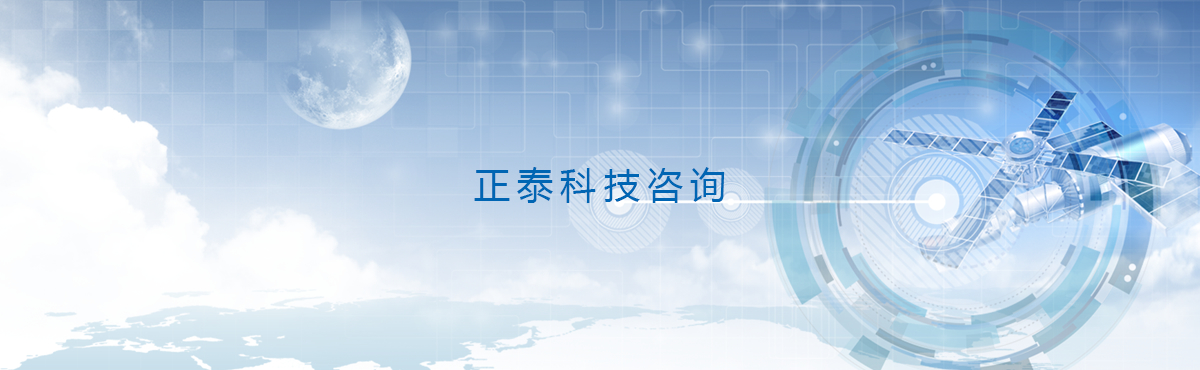
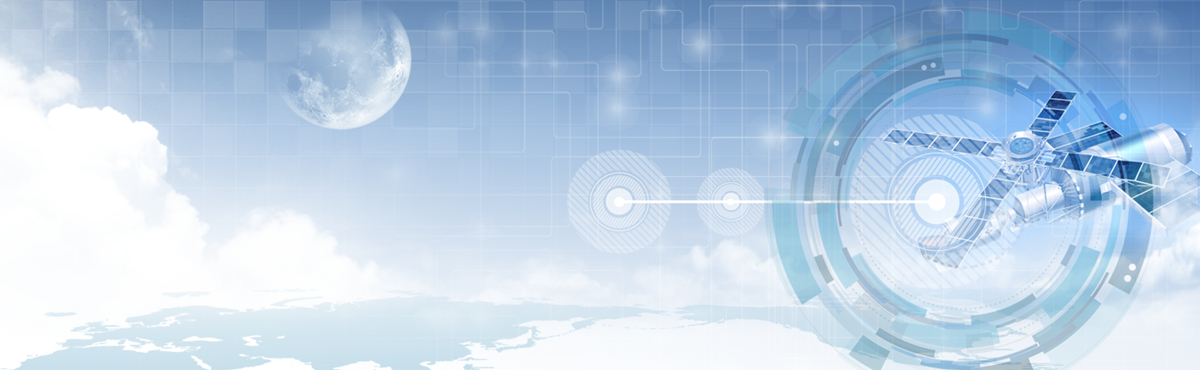
五站修改完成

Changed region(s): [[0.4008, 0.4459, 0.6167, 0.5649]]

diff --git a/WEB-INF/t/cms/kjzx/kjzx/index/index.html b/WEB-INF/t/cms/kjzx/kjzx/index/index.html
@@ -34,9 +34,15 @@
             <div class="item on" style="background-image: url(/${res}/imgs/keji1.jpg);">
                 <div class="animated fadeInLeftBig item-cnttit">正&nbsp;泰&nbsp;科&nbsp;技&nbsp;咨&nbsp;询</div>
             </div>
-            <div class="item" style="background-image: url(/${res}/imgs/keji2.jpg);"></div>
-            <div class="item" style="background-image: url(/${res}/imgs/keji3.jpg);"></div>
-            <div class="item" style="background-image: url(/${res}/imgs/keji4.jpg);"></div>
+            <div class="item" style="background-image: url(/${res}/imgs/keji2.jpg);">
+                <div class="animated fadeInLeftBig item-cnttit">正&nbsp;泰&nbsp;科&nbsp;技&nbsp;咨&nbsp;询</div>
+            </div>
+            <div class="item" style="background-image: url(/${res}/imgs/keji3.jpg);">
+                <div class="animated fadeInLeftBig item-cnttit">正&nbsp;泰&nbsp;科&nbsp;技&nbsp;咨&nbsp;询</div>
+            </div>
+            <div class="item" style="background-image: url(/${res}/imgs/keji4.jpg);">
+                <div class="animated fadeInLeftBig item-cnttit" style="color:#0066B3;">正&nbsp;泰&nbsp;科&nbsp;技&nbsp;咨&nbsp;询</div>
+            </div>
         </div>
         <div class="arrow arrow-l" id="arrowL"></div>
         <div class="arrow arrow-r" id="arrowR"></div>

diff --git a/r/cms/kjzx/kjzx/css/index.css b/r/cms/kjzx/kjzx/css/index.css
@@ -28,7 +28,7 @@ img{border:0;vertical-align:middle;-ms-interpolation-mode:bicubic}
 .index .banner .item-w .item:after,
 .index .banner .item-w .item-cnt:after{display: block;content: '';padding-top: 31%;}
 .index .banner .item-w .item.on{opacity: 1;z-index: 9}
-.index .banner .item-w .item-cnt .item-cnttit{text-align: center;font-size: 70px;color: #fff;position: absolute;top:32%;left: 0;right: 0;margin: auto}
+.index .banner .item-w .item-cnt .item-cnttit{text-align: center;font-size: 70px;color: #fff;position: absolute;top:40%;left: 0;right: 0;margin: auto}
 .index .banner-tt{}
 .index .banner-tt .container{height: 40px;text-align: right;background-color: #48454b;line-height: 40px;font-size: 0;}
 .index .banner-tt .links{margin-right: 156px;}

diff --git a/WEB-INF/t/cms/kjzx/kjzx/include/header.html b/WEB-INF/t/cms/kjzx/kjzx/include/header.html
@@ -9,7 +9,7 @@
             [#if !channel??]
             <div class="item"><a href="/" class="tt index on active"><span>首页</span></a></div>
             [#list tag_list as c]
-            [#if c_index<5]
+            [#if c_index<6]
             <div class="item">
                 <a href="${c.url}" class="tt" id="item_${c.id}" data-target="#subNav_${c.id}"><span>${c.name}</span></a>
             </div>

diff --git a/WEB-INF/t/cms/gczx/gczx/channel/news_zyyw.html b/WEB-INF/t/cms/gczx/gczx/channel/news_zyyw.html
@@ -27,7 +27,7 @@
     </div>
 </div>
 <div class="zyyw-wrapper waikuang">
-    <div class="container">
+    <div class="container" style="width: 1016px;">
         <img src="${channel.titleImg!}" alt="" class="zyywimg">
         <!--<div class="zyyw-wrapper-m">
             <div class="aside">
